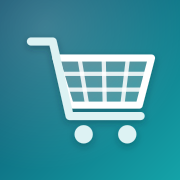
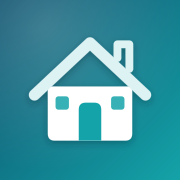
Transforma o app em Nossa Casa: módulos, 4 abas e novo ícone
- Mercado vira módulo (src/modulos/mercado) com sub-abas Compras e Mês
- Abas A resolver e Finanças como placeholders
- Novo nome, manifest e ícone de casa

Claude-Session: https://claude.ai/code/session_01MKWoyYrZnTV2aP5E4BxV22

Changed region(s): [[0.1389, 0.1944, 0.8611, 0.8056]]

diff --git a/src/components/BottomNav.tsx b/src/components/BottomNav.tsx
@@ -1,25 +1,34 @@
-export type Aba = 'listas' | 'mes' | 'ajustes'
+export type Aba = 'mercado' | 'resolver' | 'financas' | 'ajustes'
 
 const icones: Record<Aba, string> = {
-  listas: 'M8 6h12M8 12h12M8 18h12M3.5 6h.01M3.5 12h.01M3.5 18h.01',
-  mes: 'M7 3v4M17 3v4M4 9h16M5 5h14a1 1 0 011 1v13a1 1 0 01-1 1H5a1 1 0 01-1-1V6a1 1 0 011-1z',
+  // carrinho
+  mercado: 'M3 4h2l2.4 11.2a1 1 0 001 .8h9.2a1 1 0 001-.8L20 8H6M9 20h.01M17 20h.01',
+  // lista com check
+  resolver: 'M9 6h11M9 12h11M9 18h11M3.5 6l1.2 1.2L6.8 5M3.5 12l1.2 1.2L6.8 11M3.5 18l1.2 1.2L6.8 17',
+  // moedas / carteira
+  financas: 'M3 7a2 2 0 012-2h13a1 1 0 011 1v2M3 7v11a2 2 0 002 2h14a1 1 0 001-1v-3M3 7h15a2 2 0 012 2v3M20 12h-4a2 2 0 100 4h4z',
   ajustes:
     'M12 15a3 3 0 100-6 3 3 0 000 6zM19.4 15a1.7 1.7 0 00.3 1.8l.1.1a2 2 0 11-2.8 2.8l-.1-.1a1.7 1.7 0 00-1.8-.3 1.7 1.7 0 00-1 1.5V21a2 2 0 11-4 0v-.1a1.7 1.7 0 00-1.1-1.5 1.7 1.7 0 00-1.8.3l-.1.1a2 2 0 11-2.8-2.8l.1-.1a1.7 1.7 0 00.3-1.8 1.7 1.7 0 00-1.5-1H3a2 2 0 110-4h.1a1.7 1.7 0 001.5-1.1 1.7 1.7 0 00-.3-1.8l-.1-.1a2 2 0 112.8-2.8l.1.1a1.7 1.7 0 001.8.3H9a1.7 1.7 0 001-1.5V3a2 2 0 114 0v.1a1.7 1.7 0 001 1.5 1.7 1.7 0 001.8-.3l.1-.1a2 2 0 112.8 2.8l-.1.1a1.7 1.7 0 00-.3 1.8V9a1.7 1.7 0 001.5 1H21a2 2 0 110 4h-.1a1.7 1.7 0 00-1.5 1z',
 }
 
-const nomes: Record<Aba, string> = { listas: 'Listas', mes: 'Mês', ajustes: 'Ajustes' }
+const nomes: Record<Aba, string> = {
+  mercado: 'Mercado',
+  resolver: 'A resolver',
+  financas: 'Finanças',
+  ajustes: 'Ajustes',
+}
 
 export default function BottomNav({ aba, onMudar }: { aba: Aba; onMudar: (a: Aba) => void }) {
   return (
     <nav className="fixed inset-x-0 bottom-0 z-20 border-t border-brand-100 bg-white/95 pb-[env(safe-area-inset-bottom)] backdrop-blur">
-      <div className="mx-auto flex max-w-md justify-around px-4 py-2">
+      <div className="mx-auto flex max-w-md justify-around gap-1 px-2 py-2">
         {(Object.keys(nomes) as Aba[]).map((a) => {
           const ativa = a === aba
           return (
             <button
               key={a}
               onClick={() => onMudar(a)}
-              className={`flex flex-1 flex-col items-center gap-1 rounded-2xl py-2 text-xs font-semibold transition ${
+              className={`flex flex-1 flex-col items-center gap-1 rounded-2xl py-2 text-[11px] font-semibold transition ${
                 ativa ? 'bg-teal-100 text-brand-600' : 'text-brand-500/70'
               }`}
             >

diff --git a/src/App.tsx b/src/App.tsx
@@ -7,9 +7,8 @@ import type { Perfil } from './lib/types'
 import BottomNav, { type Aba } from './components/BottomNav'
 import Login from './pages/Login'
 import Configurar from './pages/Configurar'
-import Listas from './pages/Listas'
-import CompraDetalhe from './pages/CompraDetalhe'
-import Mes from './pages/Mes'
+import EmBreve from './components/EmBreve'
+import Mercado from './modulos/mercado/Mercado'
 import Ajustes from './pages/Ajustes'
 
 export default function App() {
@@ -32,8 +31,7 @@ export default function App() {
 }
 
 function Principal({ userId }: { userId: string }) {
-  const [aba, setAba] = useState<Aba>('listas')
-  const [compraAberta, setCompraAberta] = useState<string | null>(null)
+  const [aba, setAba] = useState<Aba>('mercado')
 
   const { dados: perfis } = useTabela<Perfil>('perfis')
   const valor = useMemo(
@@ -41,29 +39,29 @@ function Principal({ userId }: { userId: string }) {
     [perfis, userId],
   )
 
-  function mudarAba(a: Aba) {
-    setAba(a)
-    setCompraAberta(null)
-  }
-
-  function abrirCompra(id: string) {
-    setAba('listas')
-    setCompraAberta(id)
-  }
-
   return (
     <PerfisCtx.Provider value={valor}>
       <main className="mx-auto min-h-screen max-w-md px-4 pb-28 pt-5">
-        {aba === 'listas' &&
-          (compraAberta ? (
-            <CompraDetalhe id={compraAberta} onVoltar={() => setCompraAberta(null)} />
-          ) : (
-            <Listas onAbrir={abrirCompra} />
-          ))}
-        {aba === 'mes' && <Mes onAbrir={abrirCompra} />}
+        {aba === 'mercado' && <Mercado />}
+        {aba === 'resolver' && (
+          <EmBreve
+            titulo="A resolver"
+            subtitulo="Pendências da casa"
+            emoji="✅"
+            descricao="Lista de coisas para resolver, com responsável, prazo e anexos."
+          />
+        )}
+        {aba === 'financas' && (
+          <EmBreve
+            titulo="Finanças"
+            subtitulo="Contas e saldo da casa"
+            emoji="💰"
+            descricao="Contas do mês, saldo, projeção e caixinhas de projetos."
+          />
+        )}
         {aba === 'ajustes' && <Ajustes />}
       </main>
-      <BottomNav aba={aba} onMudar={mudarAba} />
+      <BottomNav aba={aba} onMudar={setAba} />
     </PerfisCtx.Provider>
   )
 }

diff --git a/src/modulos/mercado/Mercado.tsx b/src/modulos/mercado/Mercado.tsx
@@ -1,0 +1,46 @@
+import { useState } from 'react'
+import Listas from './Listas'
+import CompraDetalhe from './CompraDetalhe'
+import Mes from './Mes'
+
+type Sub = 'compras' | 'mes'
+
+/** Módulo Mercado: junta as telas de compras e o resumo do mês. */
+export default function Mercado() {
+  const [sub, setSub] = useState<Sub>('compras')
+  const [compraAberta, setCompraAberta] = useState<string | null>(null)
+
+  function abrirCompra(id: string) {
+    setSub('compras')
+    setCompraAberta(id)
+  }
+
+  // Dentro de uma compra, mostramos só o detalhe (com botão de voltar).
+  if (compraAberta) {
+    return <CompraDetalhe id={compraAberta} onVoltar={() => setCompraAberta(null)} />
+  }
+
+  return (
+    <div className="space-y-5">
+      <div className="flex gap-2 rounded-full bg-brand-50 p-1">
+        {(
+          [
+            ['compras', 'Compras'],
+            ['mes', 'Mês'],
+          ] as [Sub, string][]
+        ).map(([chave, nome]) => (
+          <button
+            key={chave}
+            onClick={() => setSub(chave)}
+            className={`flex-1 rounded-full py-2 text-sm font-semibold transition ${
+              sub === chave ? 'bg-white text-brand-600 shadow-soft' : 'text-brand-500'
+            }`}
+          >
+            {nome}
+          </button>
+        ))}
+      </div>
+      {sub === 'compras' ? <Listas onAbrir={abrirCompra} /> : <Mes onAbrir={abrirCompra} />}
+    </div>
+  )
+}

diff --git a/src/modulos/mercado/CompraDetalhe.tsx b/src/modulos/mercado/CompraDetalhe.tsx
@@ -1,9 +1,9 @@
 import { useMemo, useRef, useState } from 'react'
-import { useTabela } from '../hooks/useTabela'
-import { exec, meuId, supabase } from '../lib/supabase'
-import { usePerfis } from '../lib/contexto'
-import { arredonda, brl, dataCurta, num } from '../lib/format'
-import { somaCarrinho, somaPlanejado, totalDaCompra, totalLinha } from '../lib/calculos'
+import { useTabela } from '../../hooks/useTabela'
+import { exec, meuId, supabase } from '../../lib/supabase'
+import { usePerfis } from '../../lib/contexto'
+import { arredonda, brl, dataCurta, num } from '../../lib/format'
+import { somaCarrinho, somaPlanejado, totalDaCompra, totalLinha } from '../../lib/calculos'
 import {
   NOME_STATUS,
   type Categoria,
@@ -13,9 +13,9 @@ import {
   type Pagamento,
   type Perfil,
   type Status,
-} from '../lib/types'
-import Avatar from '../components/Avatar'
-import Barra from '../components/Barra'
+} from '../../lib/types'
+import Avatar from '../../components/Avatar'
+import Barra from '../../components/Barra'
 
 const txt = (n: number) => String(n).replace('.', ',')
 

diff --git a/src/modulos/mercado/Mes.tsx b/src/modulos/mercado/Mes.tsx
@@ -1,10 +1,10 @@
 import { useMemo, useState } from 'react'
-import { useTabela } from '../hooks/useTabela'
-import { exec, supabase } from '../lib/supabase'
-import { arredonda, brl, dataCurta, mesAtual, mudarMes, nomeMes, num } from '../lib/format'
-import { somaPlanejado, totalDaCompra } from '../lib/calculos'
-import type { Compra, Forma, Item, OrcamentoMes, Pagamento } from '../lib/types'
-import Barra from '../components/Barra'
+import { useTabela } from '../../hooks/useTabela'
+import { exec, supabase } from '../../lib/supabase'
+import { arredonda, brl, dataCurta, mesAtual, mudarMes, nomeMes, num } from '../../lib/format'
+import { somaPlanejado, totalDaCompra } from '../../lib/calculos'
+import type { Compra, Forma, Item, OrcamentoMes, Pagamento } from '../../lib/types'
+import Barra from '../../components/Barra'
 
 export default function Mes({ onAbrir }: { onAbrir: (id: string) => void }) {
   const { dados: compras } = useTabela<Compra>('compras', { ordem: 'data', asc: false })

diff --git a/src/modulos/mercado/Listas.tsx b/src/modulos/mercado/Listas.tsx
@@ -1,10 +1,10 @@
 import { useMemo, useState } from 'react'
-import { useTabela } from '../hooks/useTabela'
-import { meuId, supabase } from '../lib/supabase'
-import { brl, dataCurta, hoje, num } from '../lib/format'
-import { somaPlanejado, totalDaCompra } from '../lib/calculos'
-import { NOME_STATUS, type Compra, type Item } from '../lib/types'
-import Barra from '../components/Barra'
+import { useTabela } from '../../hooks/useTabela'
+import { meuId, supabase } from '../../lib/supabase'
+import { brl, dataCurta, hoje, num } from '../../lib/format'
+import { somaPlanejado, totalDaCompra } from '../../lib/calculos'
+import { NOME_STATUS, type Compra, type Item } from '../../lib/types'
+import Barra from '../../components/Barra'
 
 export default function Listas({ onAbrir }: { onAbrir: (id: string) => void }) {
   const { dados: compras, recarregar } = useTabela<Compra>('compras', { ordem: 'data', asc: false })

diff --git a/src/pages/Login.tsx b/src/pages/Login.tsx
@@ -30,11 +30,11 @@ export default function Login() {
     <div className="flex min-h-screen flex-col bg-gradient-to-b from-brand-600 to-teal-500">
       <div className="flex flex-1 flex-col items-center justify-center px-6 text-center text-white">
         <div className="mb-5 flex h-20 w-20 items-center justify-center rounded-xl3 bg-white/15 text-4xl backdrop-blur">
-          🛒
+          🏡
         </div>
-        <h1 className="text-3xl font-bold">Lista do Mercado</h1>
+        <h1 className="text-3xl font-bold">Nossa Casa</h1>
         <p className="mt-2 max-w-xs text-white/80">
-          Listas, orçamento e pagamentos das compras de vocês dois, no mesmo lugar.
+          Mercado, pendências e finanças da casa de vocês dois, no mesmo lugar.
         </p>
       </div>
 

diff --git a/src/components/EmBreve.tsx b/src/components/EmBreve.tsx
@@ -1,0 +1,25 @@
+export default function EmBreve({
+  titulo,
+  subtitulo,
+  emoji,
+  descricao,
+}: {
+  titulo: string
+  subtitulo: string
+  emoji: string
+  descricao: string
+}) {
+  return (
+    <div className="space-y-5">
+      <header>
+        <p className="text-sm text-brand-500">{subtitulo}</p>
+        <h1 className="text-2xl font-bold text-brand-600">{titulo}</h1>
+      </header>
+      <div className="card flex flex-col items-center gap-3 p-8 text-center">
+        <span className="text-5xl">{emoji}</span>
+        <p className="font-semibold text-brand-600">Chegando em breve</p>
+        <p className="text-sm text-brand-500">{descricao}</p>
+      </div>
+    </div>
+  )
+}

diff --git a/index.html b/index.html
@@ -10,8 +10,8 @@
     <meta name="mobile-web-app-capable" content="yes" />
     <meta name="apple-mobile-web-app-capable" content="yes" />
     <meta name="apple-mobile-web-app-status-bar-style" content="default" />
-    <meta name="apple-mobile-web-app-title" content="Mercado" />
-    <title>Lista do Mercado</title>
+    <meta name="apple-mobile-web-app-title" content="Casa" />
+    <title>Nossa Casa</title>
   </head>
   <body>
     <div id="root"></div>

diff --git a/src/pages/Ajustes.tsx b/src/pages/Ajustes.tsx
@@ -31,7 +31,7 @@ export default function Ajustes() {
       </section>
 
       <EditorLista
-        titulo="Categorias"
+        titulo="Categorias do mercado"
         tabela="categorias"
         itens={cats}
         comEmoji
